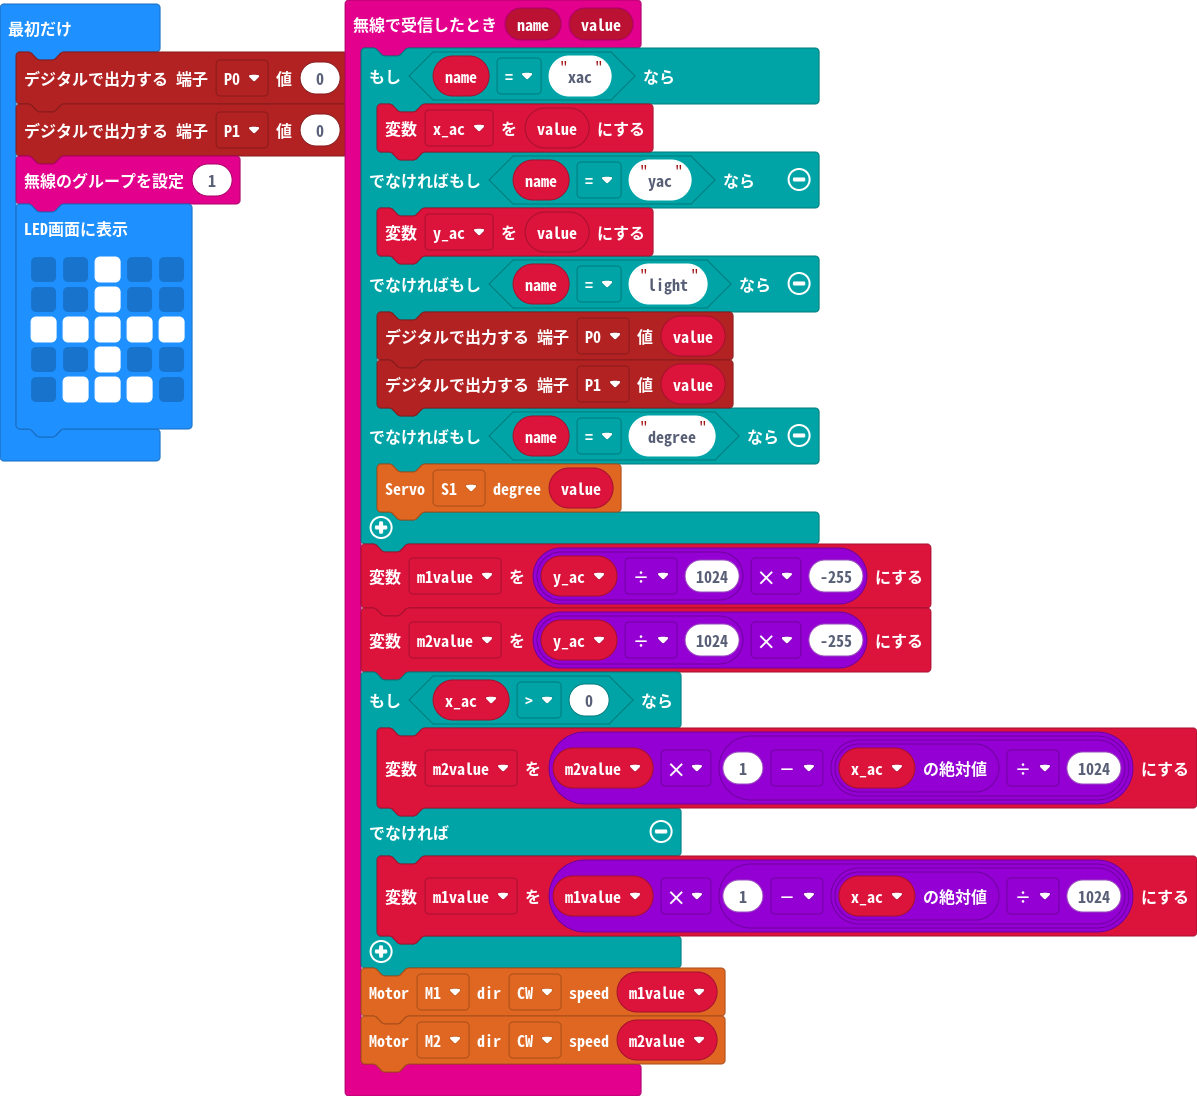
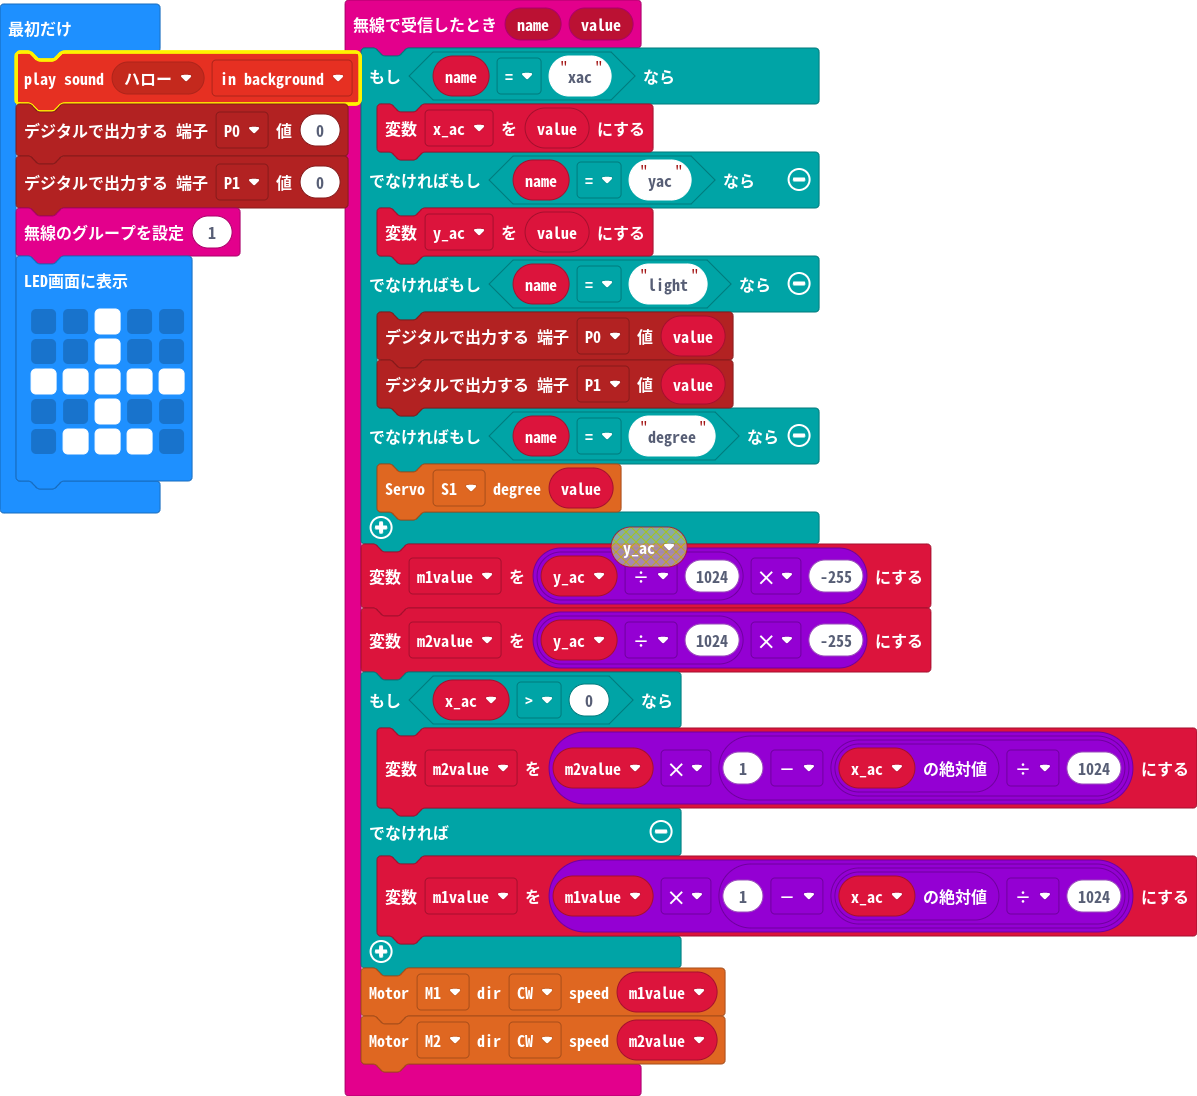
音を追加

Changed region(s): [[0.0, 0.031, 0.3091, 0.4964], [0.4946, 0.4653, 0.5873, 0.5274]]

diff --git a/main.ts b/main.ts
@@ -23,6 +23,7 @@ let m2value = 0
 let m1value = 0
 let y_ac = 0
 let x_ac = 0
+music.playSoundEffect(music.builtinSoundEffect(soundExpression.hello), SoundExpressionPlayMode.InBackground)
 pins.digitalWritePin(DigitalPin.P0, 0)
 pins.digitalWritePin(DigitalPin.P1, 0)
 radio.setGroup(1)
